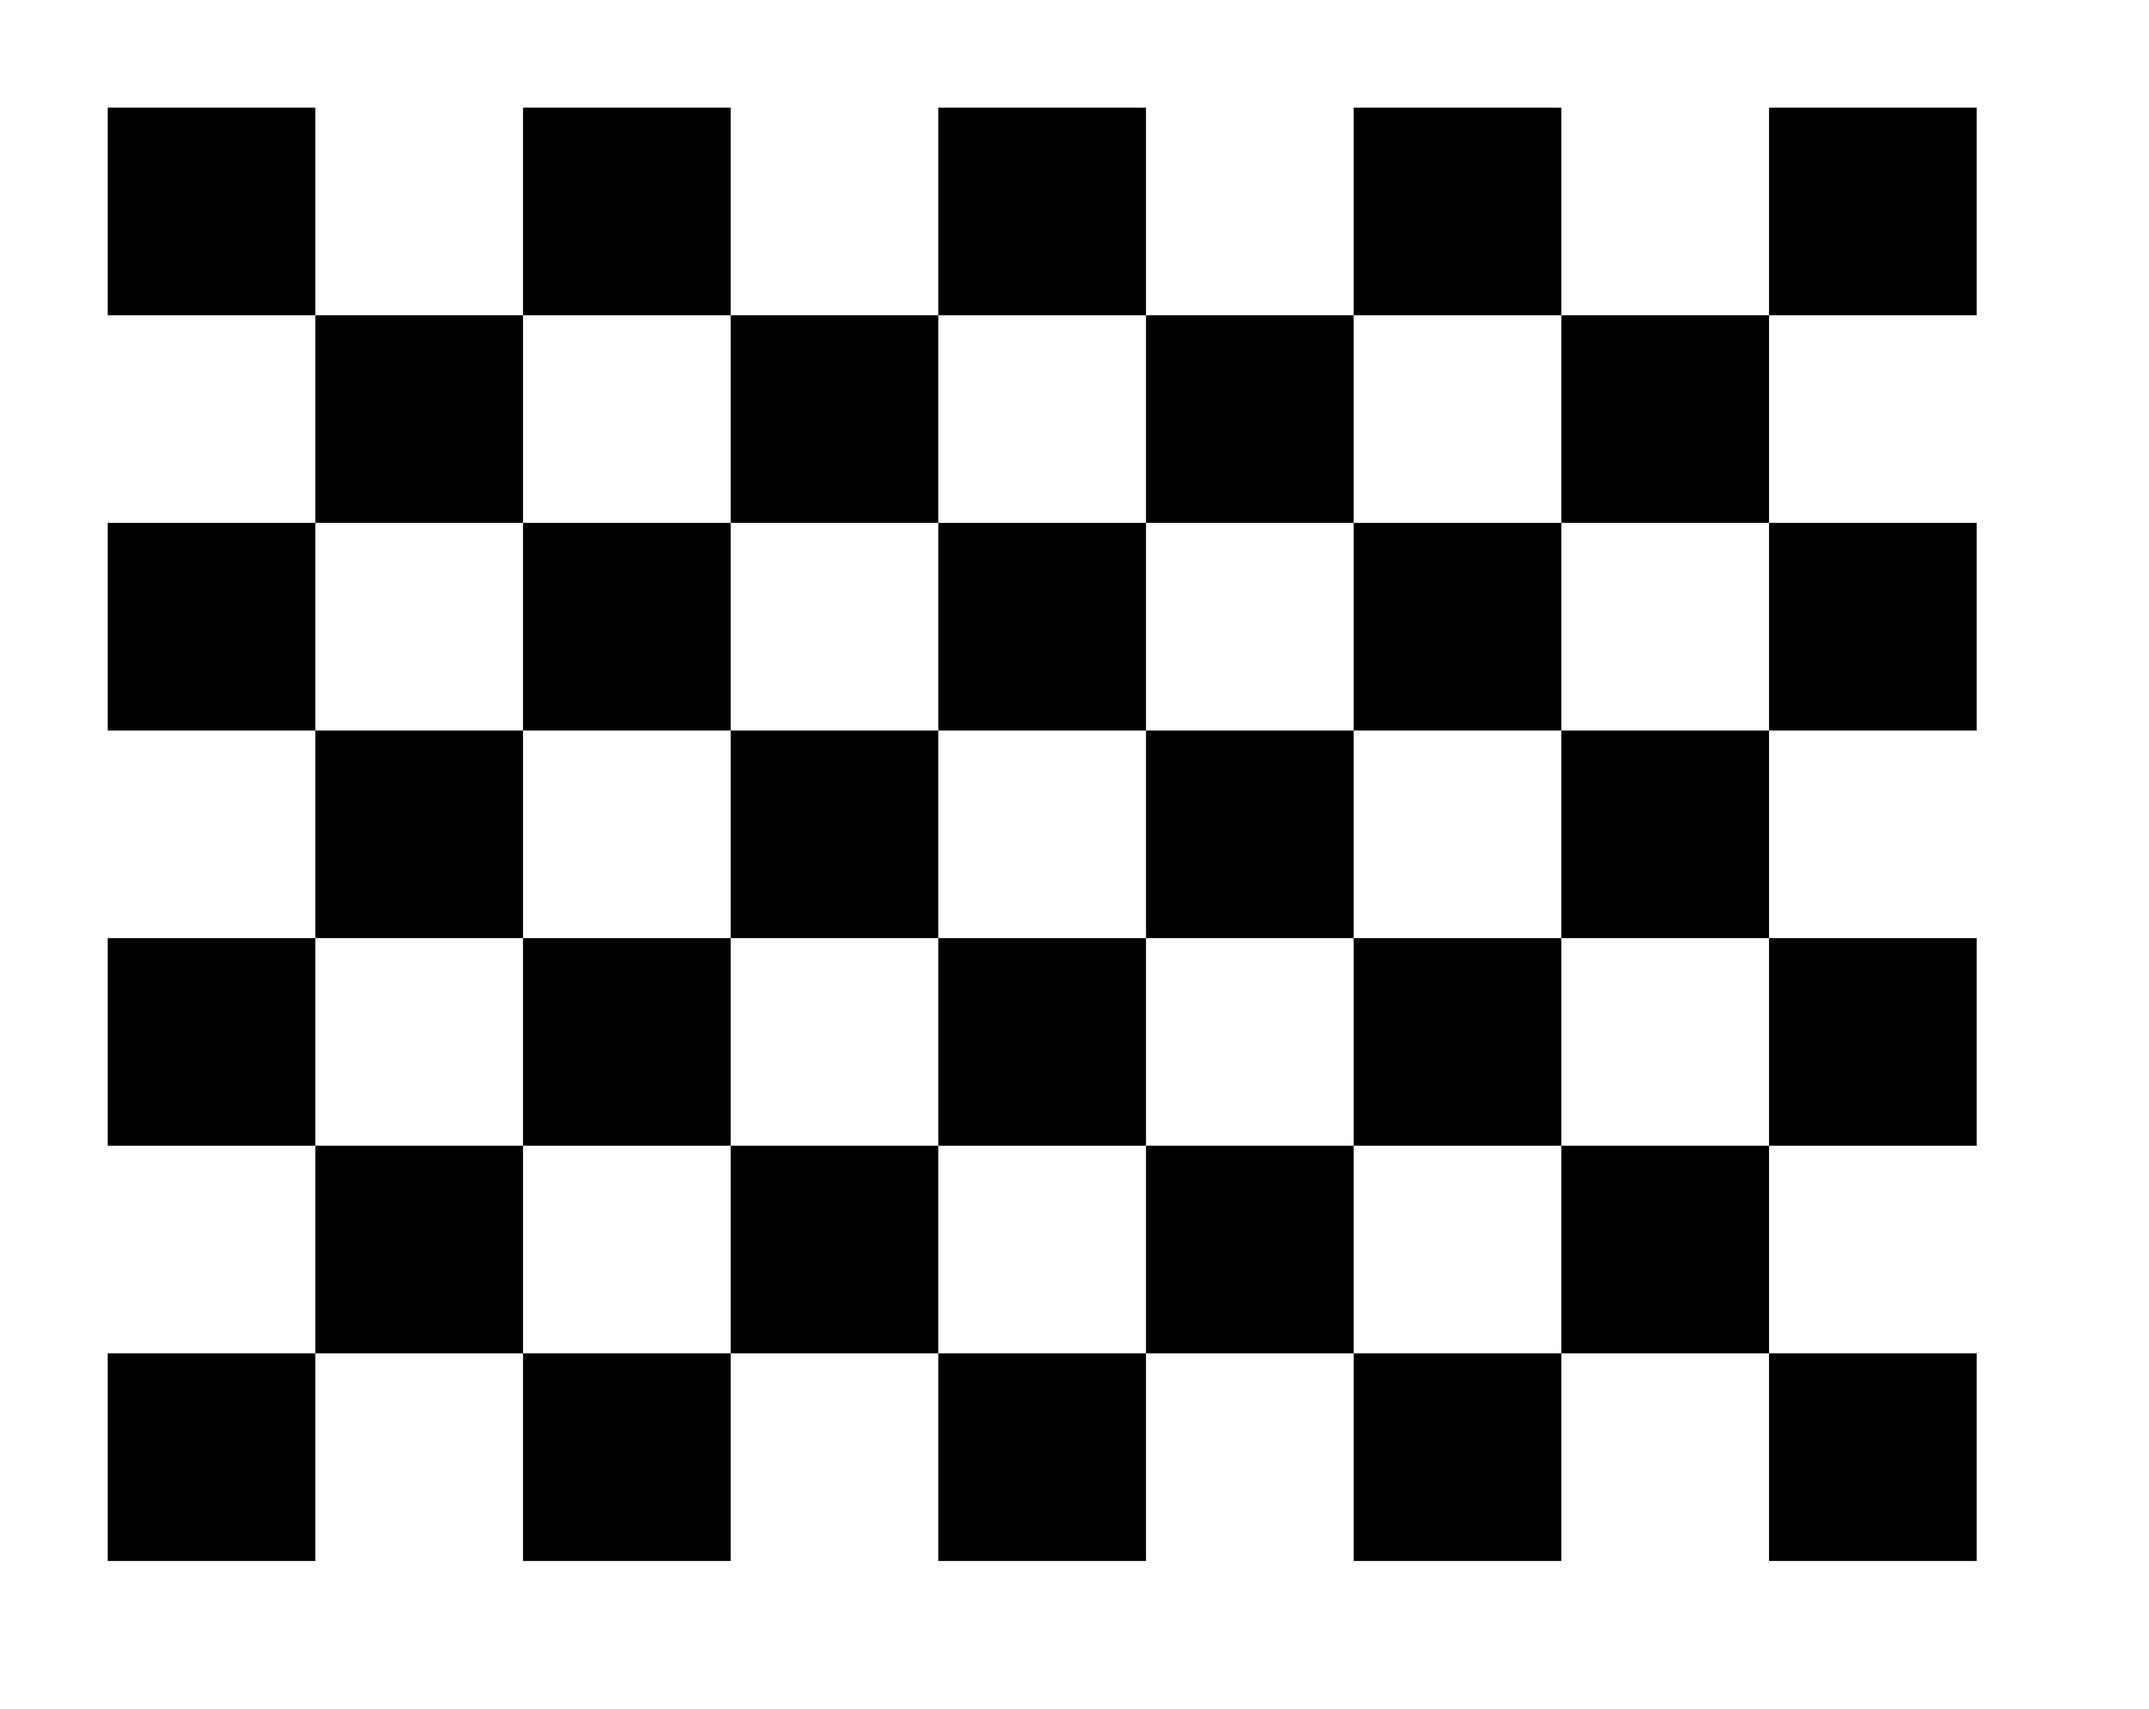
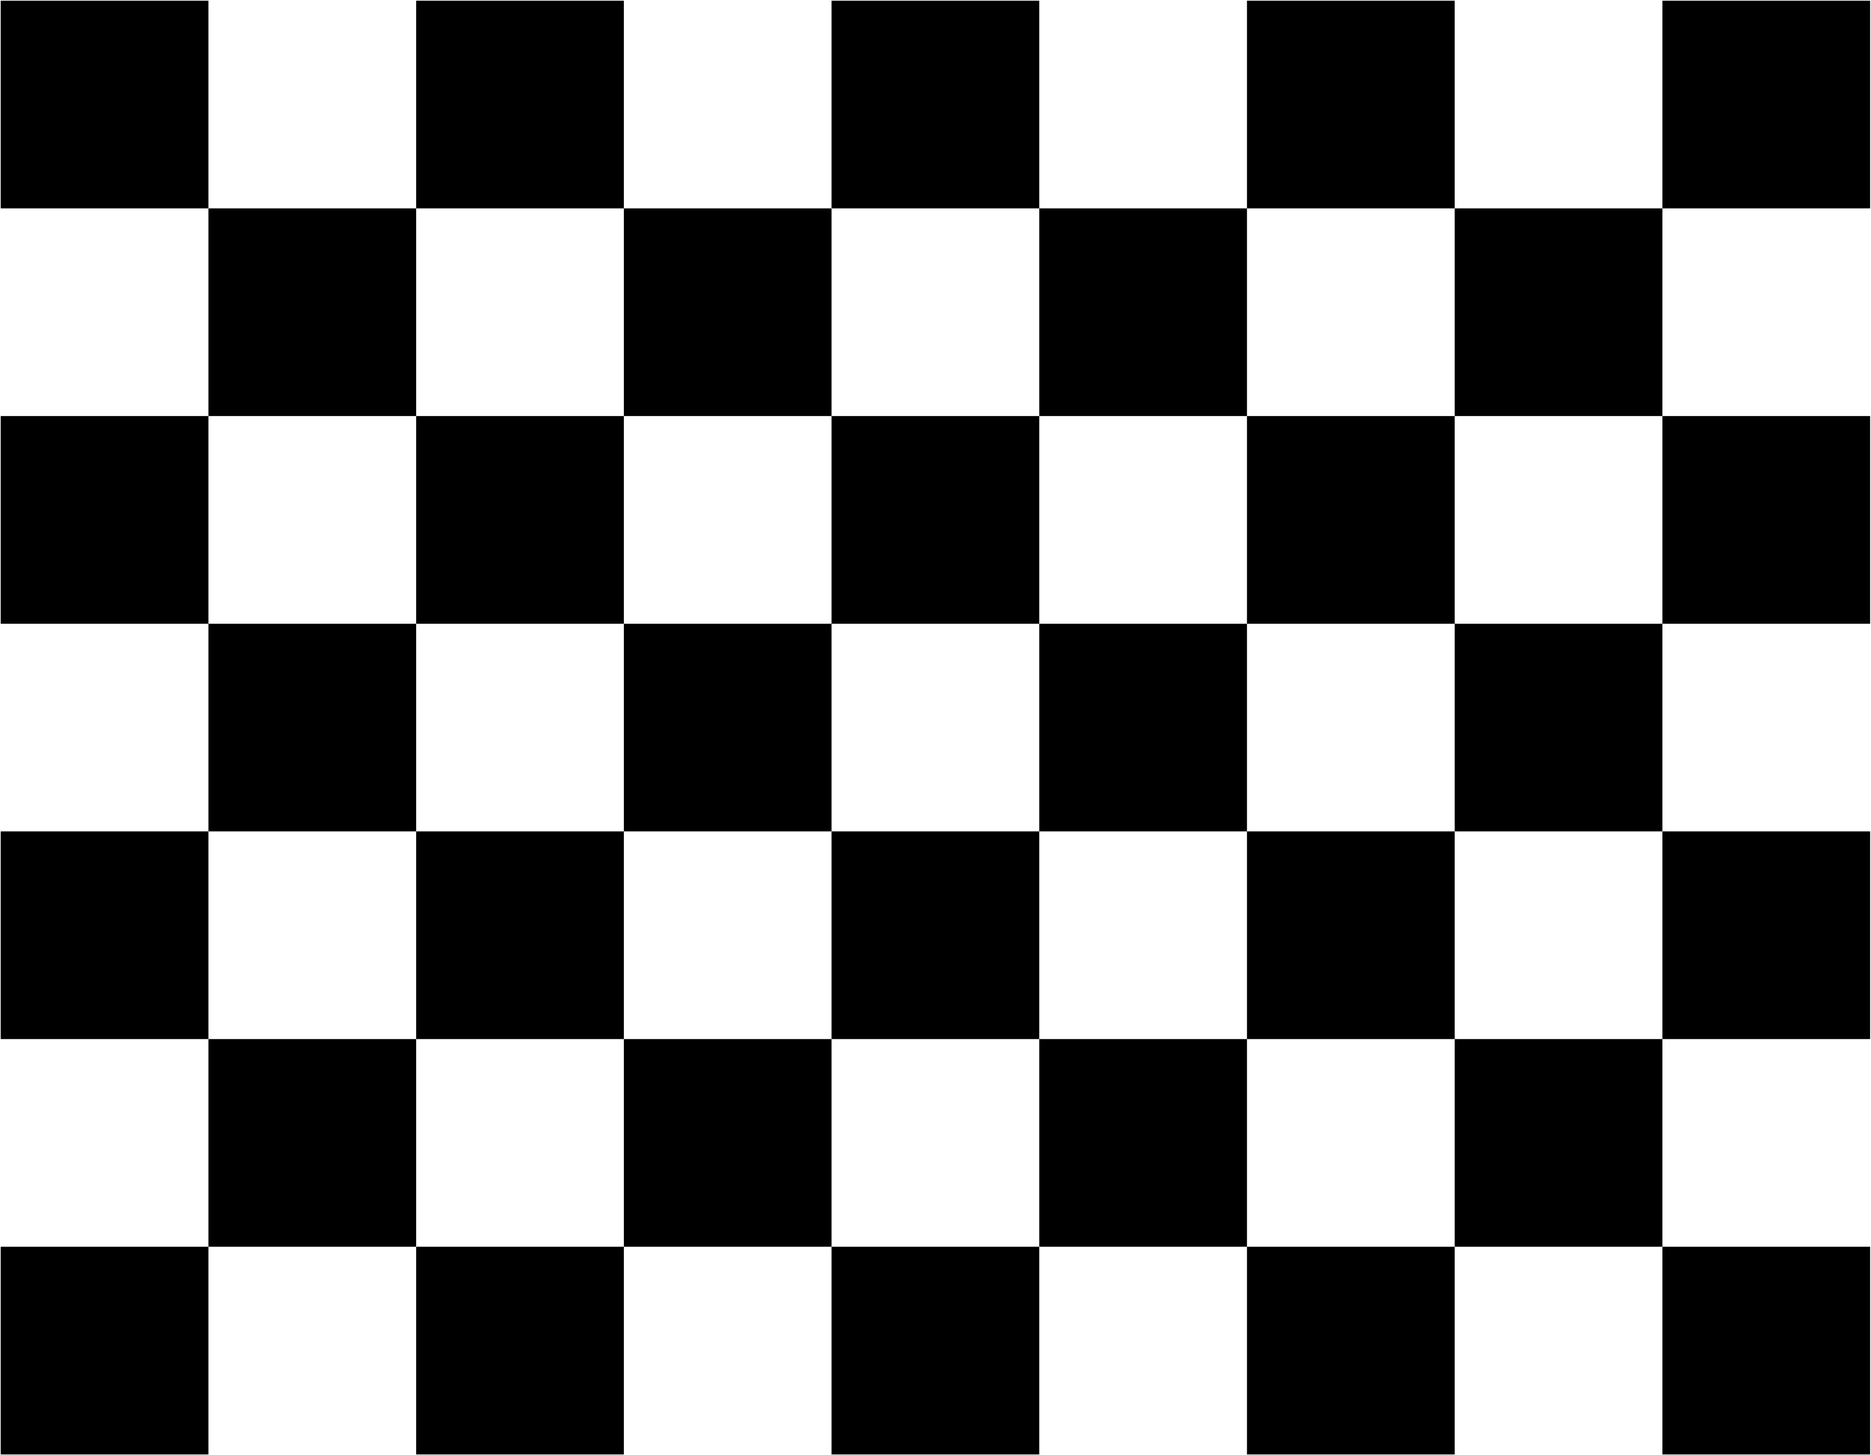
Add calibration result mode.

diff --git a/static/calibrate.js b/static/calibrate.js
@@ -2,6 +2,7 @@ function isPNaClSupported() {
 	return navigator.mimeTypes['application/x-pnacl'] !== undefined;
 }
 
+
 var WebcamCalibrator = function() {
 	this._initCapture(320, 240);
 	this._bind();
@@ -81,7 +82,9 @@ WebcamCalibrator.prototype._bind = function() {
 	$('#listener')[0].addEventListener('load', function() {
 		$('#ui_status').text('PNaCl module loaded successfully');
 		$('#ui_status').hide();
-		$('#ui_target').show('blind');
+		$('#ui_target').show('slide');
+
+		$('#ui_capture').removeClass('disabled');
 	}, true);
 
 	$('#listener')[0].addEventListener('message', function(event) {
@@ -89,9 +92,9 @@ WebcamCalibrator.prototype._bind = function() {
 		if(type === 'debug') {
 			console.log('PNaCl module:', String(event.data.message));
 		} else if(type === 'calibration') {
-			console.log('Calibration result', event.data);
+			_this._onCalibration(event.data);
 		} else if(type === 'image_result') {
-			$('#result').append($('<img/>').attr('src', event.data.image_url));
+			_this._onImageResult(event.data);
 		} else {
 			console.log('Unknown message from PNaCl module:', event);
 		}
@@ -111,6 +114,21 @@ WebcamCalibrator.prototype._sendCommand = function(command, args) {
 	message['type'] = command;
 
 	$('#calibration_module')[0].postMessage(message);
+};
+
+WebcamCalibrator.prototype._onCalibration = function(data) {
+	console.log('Calibration result', data);
+	$('#ui_target').hide();
+
+	$('#ui_result_json').text(JSON.stringify(data.intrinsic, null, 2));
+	$('#ui_result').show('slide');
+};
+
+WebcamCalibrator.prototype._onImageResult = function(data) {
+	$('#result').append(
+		$('<img/>')
+			.attr('src', data.image_url)
+			.attr('width', '80px'));
 };
 
 var wc = new WebcamCalibrator();

diff --git a/static/index.html b/static/index.html
@@ -18,27 +18,31 @@
       </div>
     </div>
   </div>
+  
+  <div id="listener">
+    <embed id="calibration_module"
+      width=0 height=0
+      src="calibrate.nmf"
+      type="application/x-pnacl" />
+  </div>
 
   <div class="container-fluid">
     <div class="row">
       <div class="col-md-3">
-        <h1>Webcam</h1>
           <div id="video"></div>
-          <button class="btn btn-primary" id="ui_capture">Capture</button>
-
-          <div id="listener">
-            <embed id="calibration_module"
-                   width=0 height=0
-                   src="calibrate.nmf"
-                   type="application/x-pnacl" />
-          </div>
+          mode: 320×240<br/>
+          <button class="btn btn-primary disabled" id="ui_capture">Capture</button>
 
           <h2>Photos</h2>
           <button class="btn btn-primary" id="ui_calibrate">Calibrate</button>
+
           <div id="result">
           </div>
-      </div>
 
+
+      </div>
+    
+      <!-- three modes: 0:loading 1:capturing 2:result -->
       <div class="col-md-9">
         <div id="ui_status">
           Loading PNaCl module.
@@ -47,9 +51,16 @@
             </div>
           </div>
         </div>
-
+        
+        <!-- TODO: adaptive target size -->
         <div id="ui_target" style="display:none">
-          <img src="check_6x8.png" width="100%"/>
+          <img src="check_6x8.png" width="90%"/>
+        </div>
+
+        <div id="ui_result" style="display: none">
+          <h1>Calibration Result</h1>
+          <pre id="ui_result_json">
+          </pre>
         </div>
       </div>
     </div>
